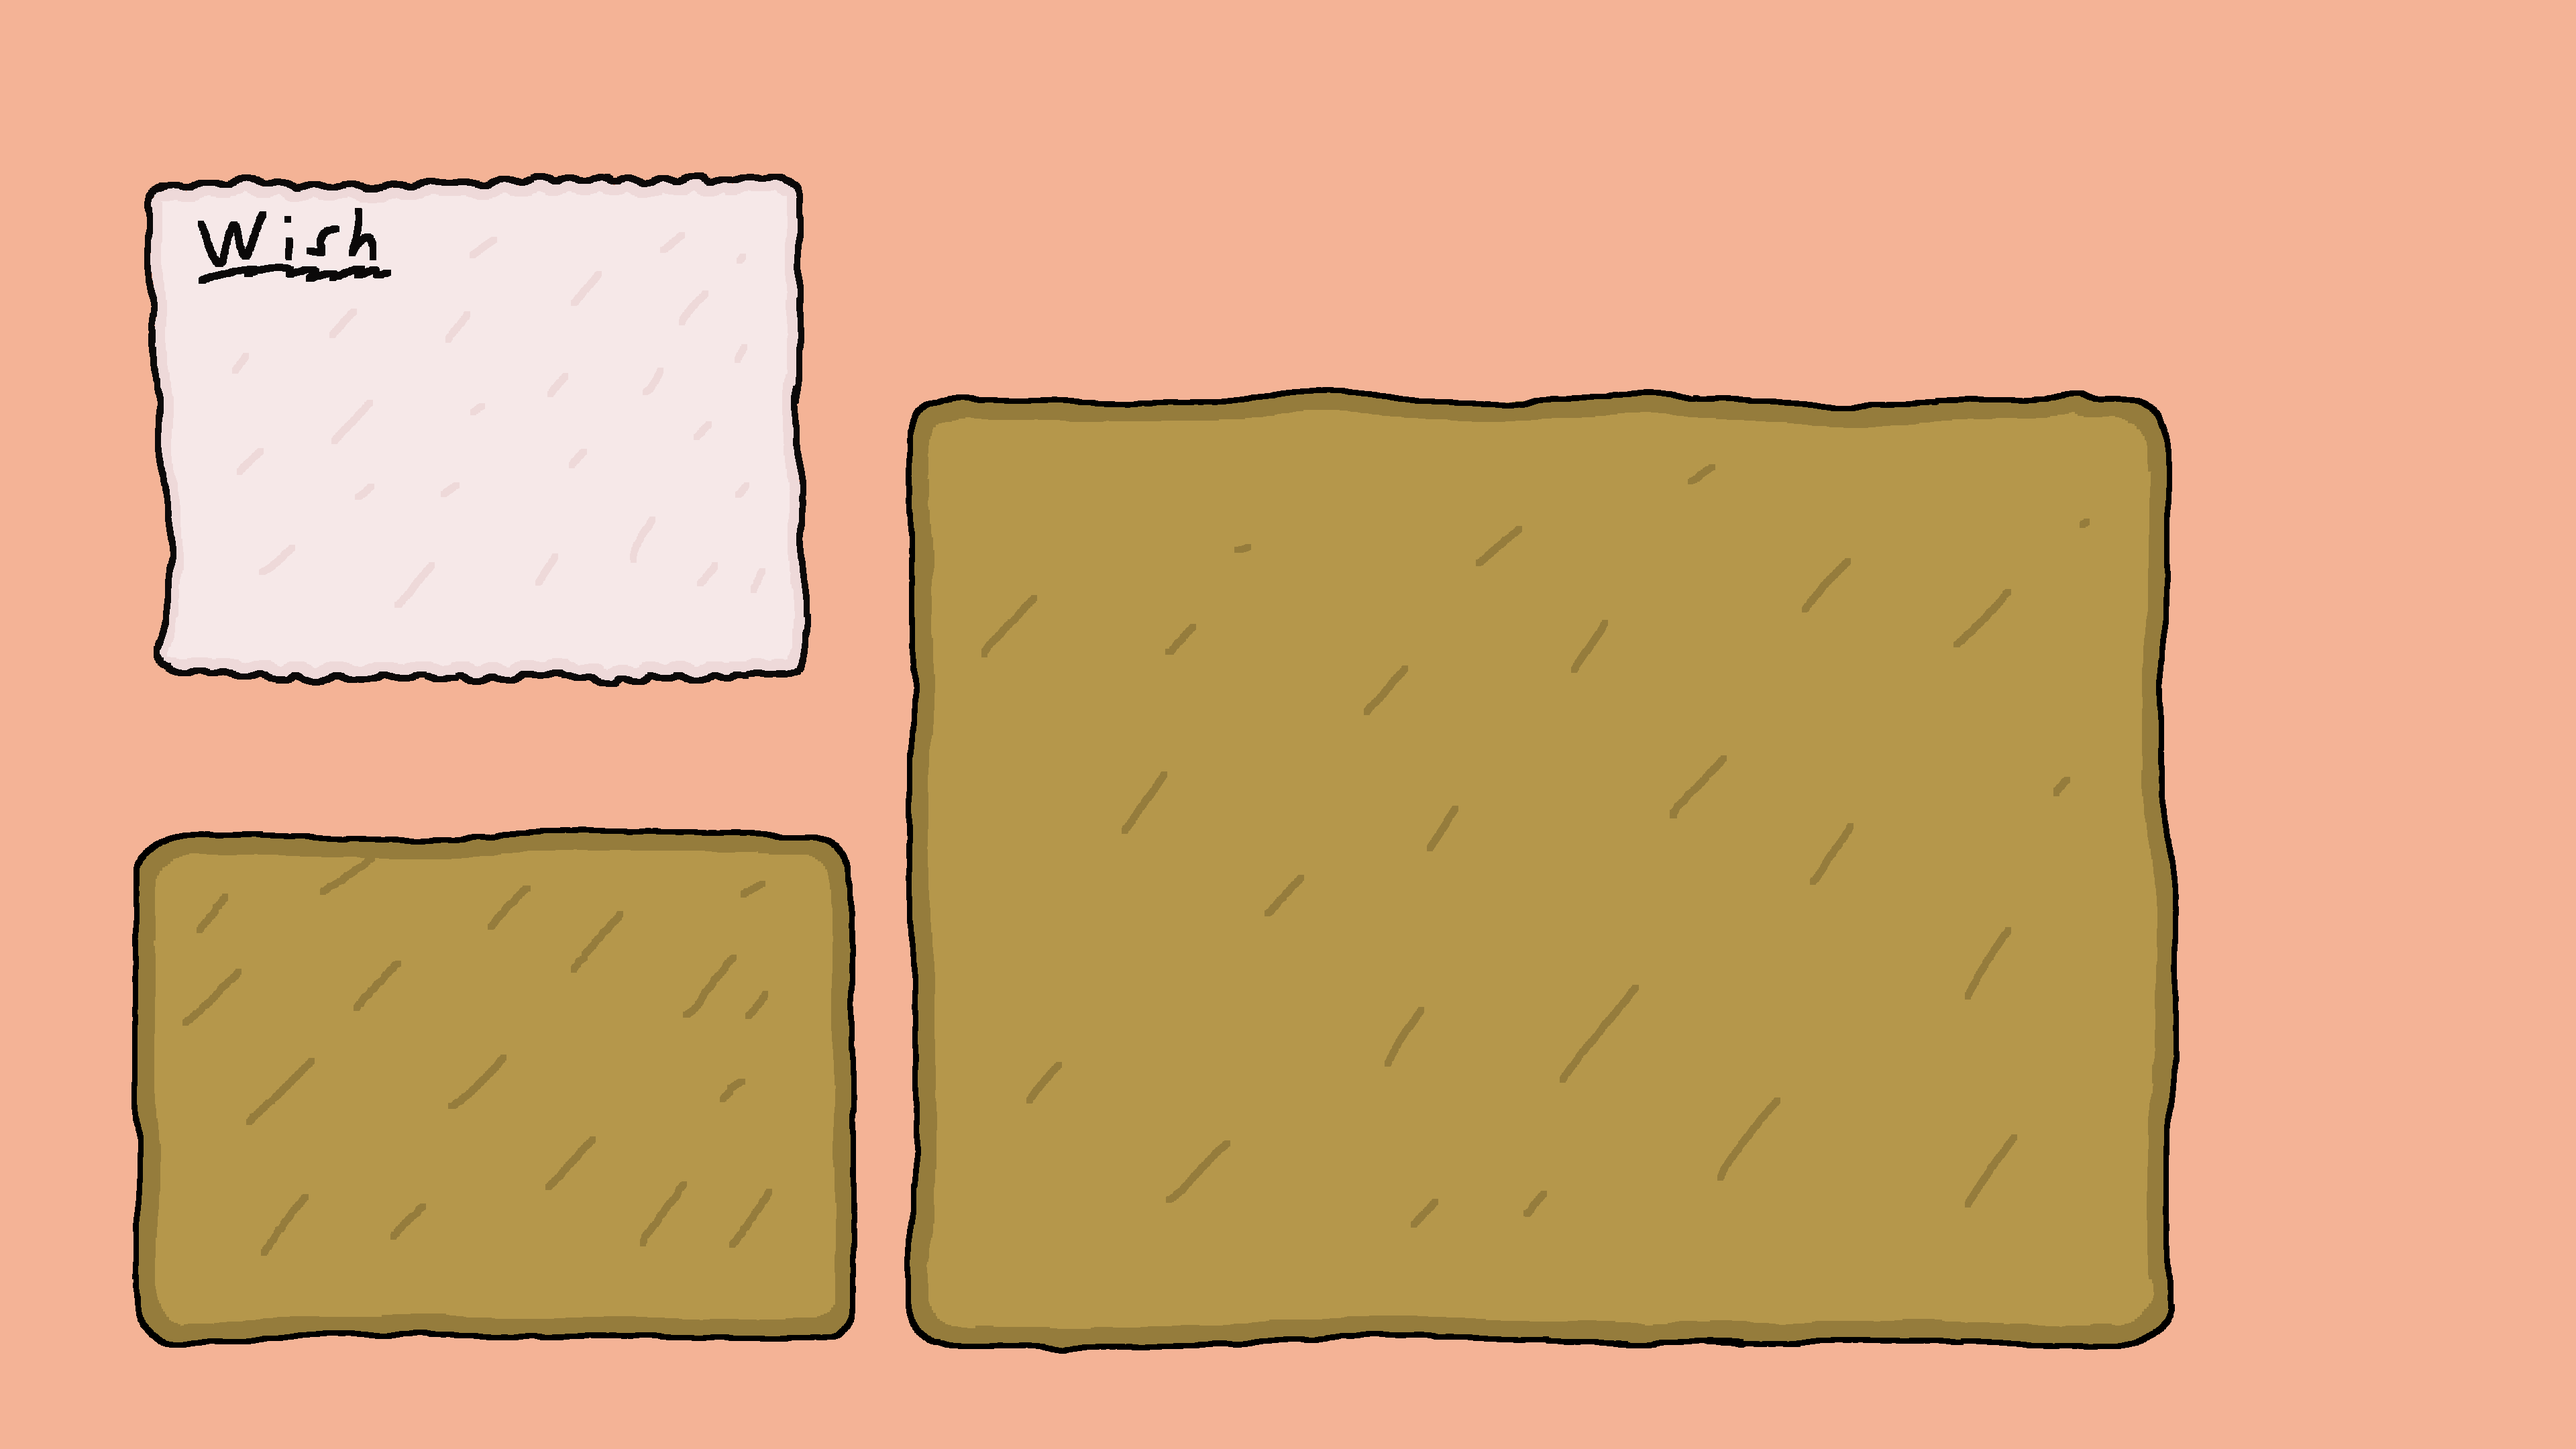
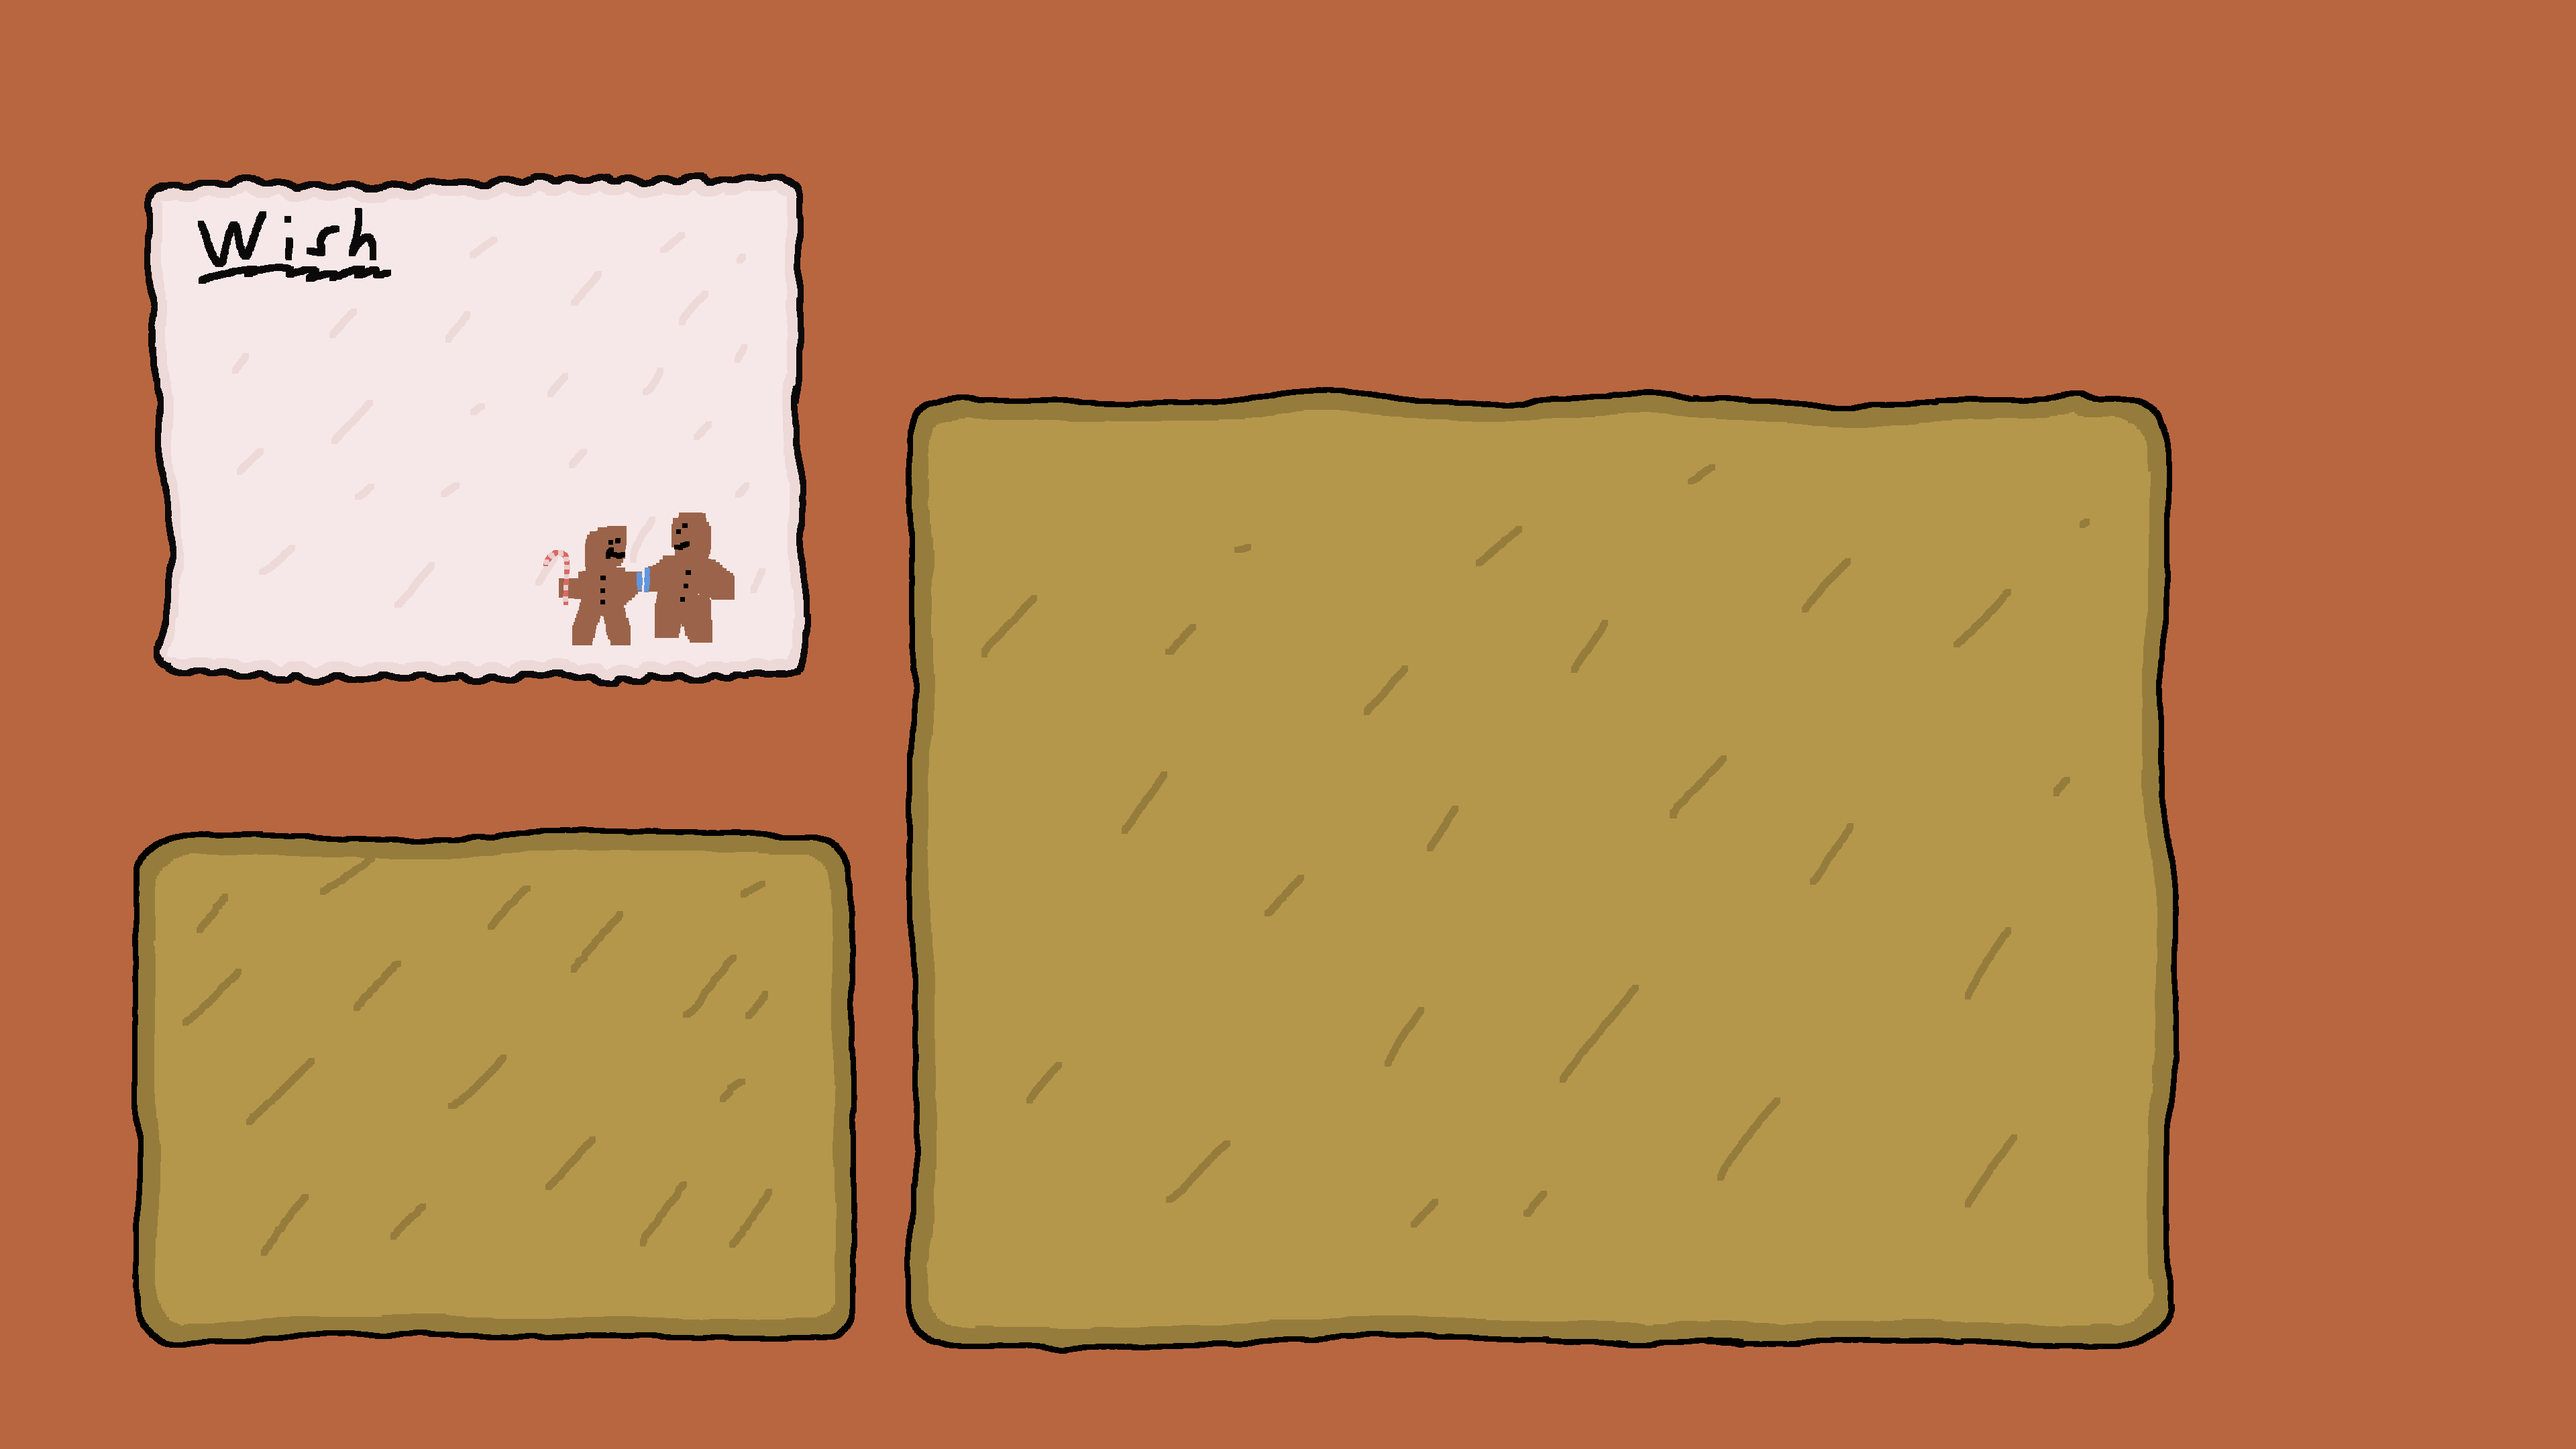
Adding basic layout for the shop and some more little bug fixes and improvements :)

diff --git a/No-Gifts-By-Santa/MVVM/View/ShopView.xaml b/No-Gifts-By-Santa/MVVM/View/ShopView.xaml
@@ -1,0 +1,96 @@
+<?xml version="1.0" encoding="utf-8"?>
+
+<ContentView xmlns="http://schemas.microsoft.com/dotnet/2021/maui"
+             xmlns:x="http://schemas.microsoft.com/winfx/2009/xaml"
+             xmlns:local="using:No_Gifts_By_Santa.MVVM.ViewModel"
+             x:Class="No_Gifts_By_Santa.MVVM.View.ShopView">
+
+    <ContentView.BindingContext>
+        <local:ShopViewModel/>
+    </ContentView.BindingContext>
+
+    <ContentView.Content>
+        <Grid>
+            <StackLayout Orientation="Horizontal" HorizontalOptions="Start" VerticalOptions="Start">
+                <Image Source="gingerbread.png" HeightRequest="30" WidthRequest="30" />
+                <Label Text="{Binding _gingerBread}" TextColor="White" FontSize="20" FontAttributes="Bold" />
+            </StackLayout>
+            <ScrollView Margin="50,0,0,0">
+                <StackLayout Orientation="Vertical">
+                    <StackLayout Orientation="Horizontal">
+                        <Image Source="pack_item_1.png" HeightRequest="150" WidthRequest="150" />
+                        <Image Source="pack_item_2.png" HeightRequest="150" WidthRequest="150" />
+                        <Image Source="pack_item_3.png" HeightRequest="150" WidthRequest="150" />
+                        <StackLayout Orientation="Vertical" VerticalOptions="Center">
+                            <StackLayout Orientation="Horizontal">
+                                <Image Source="gingerbread.png" WidthRequest="35" HeightRequest="35"/>
+                                <Label FontSize="20" TextColor="White" FontAttributes="Bold" Text="200"/>
+                            </StackLayout>
+                            <Image Source="buy.png" WidthRequest="120" />
+                        </StackLayout>
+                    </StackLayout>
+                    <StackLayout Orientation="Horizontal">
+                        <Image Source="pack_item_1.png" HeightRequest="150" WidthRequest="150" />
+                        <Image Source="pack_item_2.png" HeightRequest="150" WidthRequest="150" />
+                        <Image Source="pack_item_3.png" HeightRequest="150" WidthRequest="150" />
+                        <StackLayout Orientation="Vertical" VerticalOptions="Center">
+                            <StackLayout Orientation="Horizontal">
+                                <Image Source="gingerbread.png" WidthRequest="35" HeightRequest="35"/>
+                                <Label FontSize="20" TextColor="White" FontAttributes="Bold" Text="200"/>
+                            </StackLayout>
+                            <Image Source="buy.png" WidthRequest="120" />
+                        </StackLayout>
+                    </StackLayout>
+                    <StackLayout Orientation="Horizontal">
+                        <Image Source="pack_item_1.png" HeightRequest="150" WidthRequest="150" />
+                        <Image Source="pack_item_2.png" HeightRequest="150" WidthRequest="150" />
+                        <Image Source="pack_item_3.png" HeightRequest="150" WidthRequest="150" />
+                        <StackLayout Orientation="Vertical" VerticalOptions="Center">
+                            <StackLayout Orientation="Horizontal">
+                                <Image Source="gingerbread.png" WidthRequest="35" HeightRequest="35"/>
+                                <Label FontSize="20" TextColor="White" FontAttributes="Bold" Text="200"/>
+                            </StackLayout>
+                            <Image Source="buy.png" WidthRequest="120" />
+                        </StackLayout>
+                    </StackLayout>
+                    <StackLayout Orientation="Horizontal">
+                        <Image Source="pack_item_1.png" HeightRequest="150" WidthRequest="150" />
+                        <Image Source="pack_item_2.png" HeightRequest="150" WidthRequest="150" />
+                        <Image Source="pack_item_3.png" HeightRequest="150" WidthRequest="150" />
+                        <StackLayout Orientation="Vertical" VerticalOptions="Center">
+                            <StackLayout Orientation="Horizontal">
+                                <Image Source="gingerbread.png" WidthRequest="35" HeightRequest="35"/>
+                                <Label FontSize="20" TextColor="White" FontAttributes="Bold" Text="200"/>
+                            </StackLayout>
+                            <Image Source="buy.png" WidthRequest="120" />
+                        </StackLayout>
+                    </StackLayout>
+                    <StackLayout Orientation="Horizontal">
+                        <Image Source="pack_item_1.png" HeightRequest="150" WidthRequest="150" />
+                        <Image Source="pack_item_2.png" HeightRequest="150" WidthRequest="150" />
+                        <Image Source="pack_item_3.png" HeightRequest="150" WidthRequest="150" />
+                        <StackLayout Orientation="Vertical" VerticalOptions="Center">
+                            <StackLayout Orientation="Horizontal">
+                                <Image Source="gingerbread.png" WidthRequest="35" HeightRequest="35"/>
+                                <Label FontSize="20" TextColor="White" FontAttributes="Bold" Text="200"/>
+                            </StackLayout>
+                            <Image Source="buy.png" WidthRequest="120" />
+                        </StackLayout>
+                    </StackLayout>
+                    <StackLayout Orientation="Horizontal">
+                        <Image Source="pack_item_1.png" HeightRequest="150" WidthRequest="150" />
+                        <Image Source="pack_item_2.png" HeightRequest="150" WidthRequest="150" />
+                        <Image Source="pack_item_3.png" HeightRequest="150" WidthRequest="150" />
+                        <StackLayout Orientation="Vertical" VerticalOptions="Center">
+                            <StackLayout Orientation="Horizontal">
+                                <Image Source="gingerbread.png" WidthRequest="35" HeightRequest="35"/>
+                                <Label FontSize="20" TextColor="White" FontAttributes="Bold" Text="200"/>
+                            </StackLayout>
+                            <Image Source="buy.png" WidthRequest="120" />
+                        </StackLayout>
+                    </StackLayout>
+                </StackLayout>
+            </ScrollView>
+        </Grid>
+    </ContentView.Content>
+</ContentView>

diff --git a/No-Gifts-By-Santa/MVVM/View/SettingsView.xaml b/No-Gifts-By-Santa/MVVM/View/SettingsView.xaml
@@ -3,8 +3,7 @@
 <ContentView xmlns="http://schemas.microsoft.com/dotnet/2021/maui"
              xmlns:x="http://schemas.microsoft.com/winfx/2009/xaml"
              xmlns:local="clr-namespace:No_Gifts_By_Santa.MVVM.ViewModel"
-             x:Class="No_Gifts_By_Santa.MVVM.View.SettingsView"
-             x:DataType="local:SettingsViewModel">
+             x:Class="No_Gifts_By_Santa.MVVM.View.SettingsView">
 
     <ContentView.BindingContext>
         <local:SettingsViewModel/>
@@ -48,9 +47,9 @@
 
             <!-- Navigation Buttons -->
             <StackLayout HorizontalOptions="Center" VerticalOptions="End" Orientation="Horizontal" Spacing="8">
-                <Button Text="◄" WidthRequest="20" HeightRequest="20" Command="{Binding _LeftPagCommand}"/>
+                <ImageButton Source="left.png" WidthRequest="20" HeightRequest="20" Command="{Binding _LeftPagCommand}" BackgroundColor="Transparent"/>
                 <!--<Button Text="Save" WidthRequest="80" HeightRequest="20" Command="{Binding _SavePageSettingsCommand}"/> -->
-                <Button Text="►" WidthRequest="20" HeightRequest="20" Command="{Binding _RightPageCommand}"/>
+                <ImageButton Source="right.png" WidthRequest="20" HeightRequest="20" Command="{Binding _RightPageCommand}" BackgroundColor="Transparent"/>
             </StackLayout>
         </Grid>
     </ContentView.Content>

diff --git a/No-Gifts-By-Santa/MVVM/View/MenuView.xaml b/No-Gifts-By-Santa/MVVM/View/MenuView.xaml
@@ -51,7 +51,8 @@
                         <Button Text="x" HorizontalOptions="End" VerticalOptions="Start" Margin="5" Command="{Binding _closePopup}" BackgroundColor="Brown"/>
                     </Grid>
                 </Border>
-            </AbsoluteLayout>     
+            </AbsoluteLayout>
+            <ImageButton Source="shop.png" HorizontalOptions="Start" VerticalOptions="End" HeightRequest="100" WidthRequest="100" Command="{Binding _shopView}" BackgroundColor="Transparent"/>    
         </Grid>
        
     </ContentPage.Content>

diff --git a/No-Gifts-By-Santa/MVVM/ViewModel/MenuViewModel.cs b/No-Gifts-By-Santa/MVVM/ViewModel/MenuViewModel.cs
@@ -41,6 +41,7 @@ namespace No_Gifts_By_Santa.MVVM.ViewModel
         public ICommand _creditsView { get; }
         public ICommand _settingsView { get; }
         public ICommand _tutorialView { get; }
+        public ICommand _shopView { get; }
         public ICommand _closePopup { get; }
 
         public MenuViewModel()
@@ -49,6 +50,7 @@ namespace No_Gifts_By_Santa.MVVM.ViewModel
             _creditsView = new Command<Button>(CreditsButton);
             _settingsView = new Command<Button>(SettingsButton);
             _tutorialView = new Command<Button>(TutorialButton);
+            _shopView = new Command<Button>(ShopButton);
             _closePopup = new Command<Button>(ClosePopup);
         }
         
@@ -91,6 +93,15 @@ namespace No_Gifts_By_Santa.MVVM.ViewModel
         {
             _dragable = false;
             Popup = new TutorialView();
+            PopupEnabled = true;
+            OnPropertyChanged(nameof(PopupEnabled));
+            OnPropertyChanged(nameof(Popup));
+        }
+
+        private async void ShopButton(Button button)
+        {
+            _dragable = true;
+            Popup = new ShopView();
             PopupEnabled = true;
             OnPropertyChanged(nameof(PopupEnabled));
             OnPropertyChanged(nameof(Popup));

diff --git a/No-Gifts-By-Santa/MVVM/ViewModel/ShopViewModel.cs b/No-Gifts-By-Santa/MVVM/ViewModel/ShopViewModel.cs
@@ -1,0 +1,31 @@
+using System.ComponentModel;
+using System.Runtime.CompilerServices;
+
+namespace No_Gifts_By_Santa.MVVM.ViewModel
+{
+    public class ShopViewModel : INotifyPropertyChanged
+    {
+        public string _gingerBread { get; }
+        public ShopViewModel()
+        {
+            _gingerBread = Preferences.Get("Lebkuchen", 0).ToString();
+            OnPropertyChanged(nameof(_gingerBread));
+        }
+
+        public event PropertyChangedEventHandler? PropertyChanged;
+
+        protected virtual void OnPropertyChanged([CallerMemberName] string? propertyName = null)
+        {
+            PropertyChanged?.Invoke(this, new PropertyChangedEventArgs(propertyName));
+        }
+
+        protected bool SetField<T>(ref T field, T value, [CallerMemberName] string? propertyName = null)
+        {
+            if (EqualityComparer<T>.Default.Equals(field, value)) return false;
+            field = value;
+            OnPropertyChanged(propertyName);
+            return true;
+        }
+
+    }
+}

diff --git a/No-Gifts-By-Santa/MVVM/ViewModel/GameViewModel.cs b/No-Gifts-By-Santa/MVVM/ViewModel/GameViewModel.cs
@@ -170,12 +170,12 @@ namespace No_Gifts_By_Santa.MVVM.ViewModel
             
             // Add gift box to the canvas - left bottom table area
             _canvas.Add(_giftBox);
-            AbsoluteLayout.SetLayoutBounds(_giftBox, new Rect(280, 600, 120, 120));
+            AbsoluteLayout.SetLayoutBounds(_giftBox, new Rect(280*scaleX, 720*scaleY, 200*scaleX, 200*scaleX));
         
             for (int i = 0; i < _items.Count; i++)
             {
                 _canvas.Add(_items[i]);
-                AbsoluteLayout.SetLayoutBounds(_items[i], new Rect(new Random().Next(700, 1600)*scaleX, new Random().Next(400, 800)*scaleY, 80, 80));
+                AbsoluteLayout.SetLayoutBounds(_items[i], new Rect(new Random().Next(700, 1600)*scaleX, new Random().Next(400, 800)*scaleY, 80*scaleX, 80*scaleX));
             }
         }
 

diff --git a/No-Gifts-By-Santa/MVVM/View/ShopView.xaml.cs b/No-Gifts-By-Santa/MVVM/View/ShopView.xaml.cs
@@ -1,0 +1,9 @@
+namespace No_Gifts_By_Santa.MVVM.View;
+
+public partial class ShopView : ContentView
+{
+    public ShopView()
+    {
+        InitializeComponent();
+    }
+}
